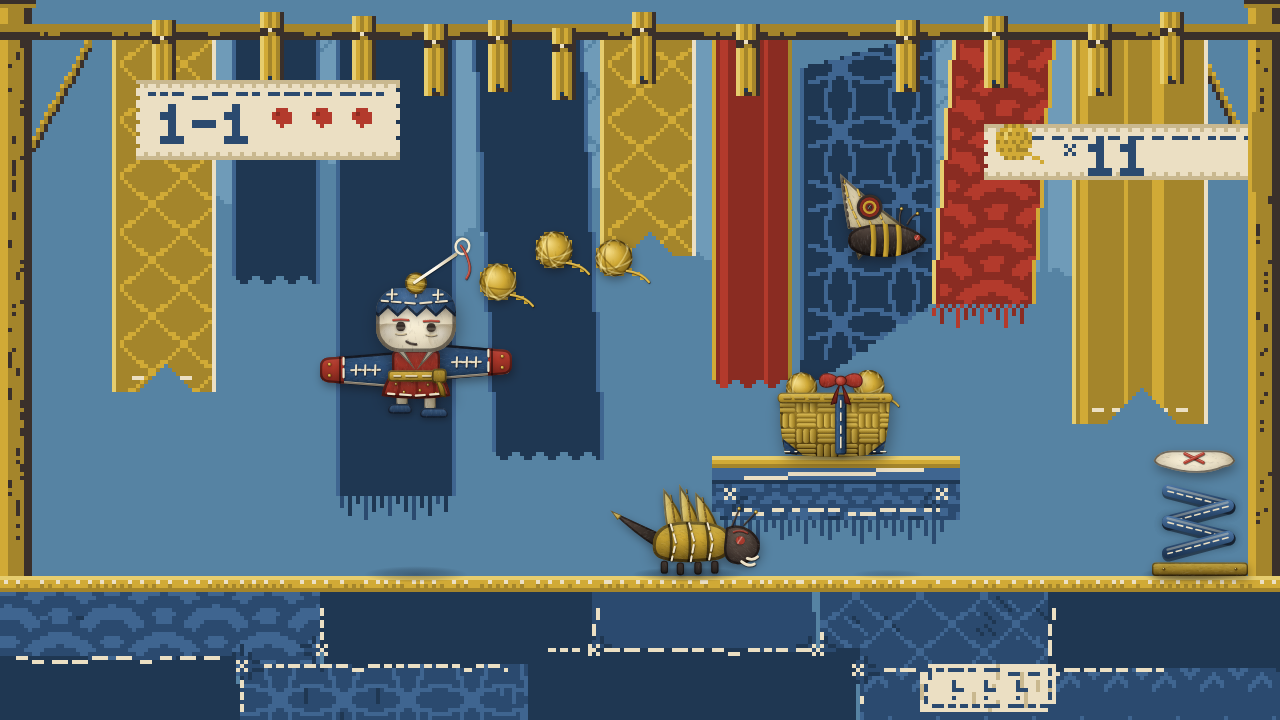
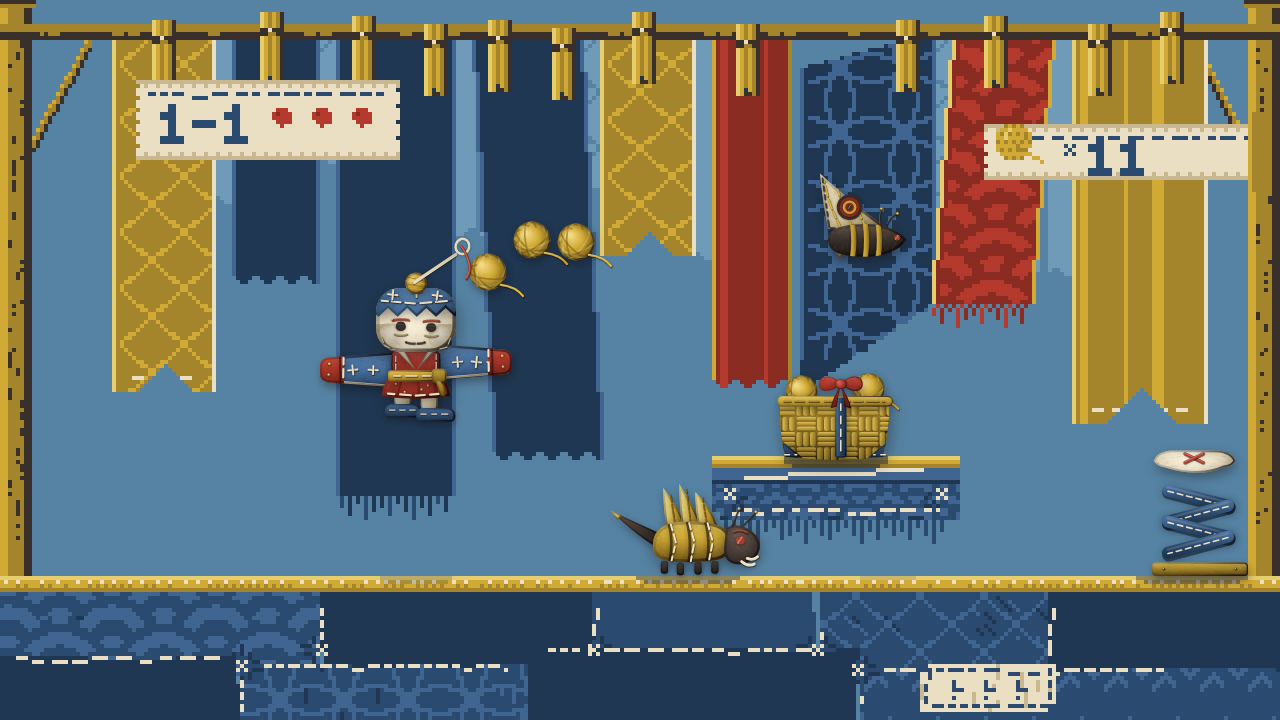
title-01: design concept revision 5 (hand-placed plush texture, layer boundary rule, face C finish)
Claude-Session: https://claude.ai/code/session_01BwCev4yJoSeeksS9CS27y6

diff --git a/studio/design-concept/notes.md b/studio/design-concept/notes.md
@@ -72,13 +72,37 @@
 - C「いたずらな半月」: 左は丸目、右は半分とじた半月で、茜のまぶたは右だけ高い弧、口は右が大きく上がる。ねらい: 一癖あるやんちゃな顔。「量産ぬい」の左右対称の笑顔とは、左右の目の形そのものが違い、ウィンクの記号（片目を線にして片口だけ上げる）にはせず、目は面のまま・両口角が上がる所が違う。
 
 ## 高解像度キャラ案（オーナー案: 背景はピクトグラム、キャラだけ4倍の密度でちりめん細工のぬいぐるみ）
-成果物: hires/tsugi-hires-options.png（A 楕円のサテン目＋茜の口 / B とじた弧の目＋茜の口 / C 半月の目＋長さ違いの2針。上段は6倍の全身、下段は顔の14倍）、hires/scene-hires.png（1280x720。背景は scene.png の最近傍4倍、キャラ=ツギ（B）・イガ・コナだけを高解像度で重ね、足もとに柔らかい接地影）。糸玉・つづら・ばねは背景側のドットのまま。6色の色相だけで、明暗は同じ色相の中間色。
+成果物: hires/tsugi-hires-options.png（A 楕円のサテン目＋茜の口 / B とじた弧の目＋茜の口 / C 半月の目＋長さ違いの2針。上段は6倍の全身、下段は顔の14倍）、hires/scene-hires.png（1280x720。背景は scene.png の最近傍4倍、キャラ=ツギ（B）・イガ・コナだけを高解像度で重ね、足もとに柔らかい接地影）。6色の色相だけで、明暗は同じ色相の中間色。
 実装コストとリスク（正直に）:
 - **描画を2層に割る必要がある**: 背景は 320x180 の低解像度キャンバスを整数倍で拡大、キャラは 1280x720 の別キャンバス（またはWebGL）に描く。カメラ・当たり判定は論理座標（16pxマス、足もと 12x24）のまま、描画だけを分ける。ピクセルスナップ（キャラの位置を論理1画素=4px にそろえるか、サブピクセルで滑らかに動かすか）を決める必要がある
 - **絵の量が増える**: 今回はスクリプトで描いたが、実ゲームでは「パーツ（頭・袖・胴・脚）を事前レンダリングした画像」にして、走り2〜4コマ・跳び・着地・踏まれ・顔の表情6種を、1キャラ数十枚（4倍の密度で1枚 200x180 前後）にする。敵7種＋ボスも同様で、アセット量とメモリはドット絵の十数倍。ちりめんの質感はテクスチャとして共有して容量を抑える。動きはスプライトを切り替えるより、パーツを袖・体で回して（リグ）、質感だけ事前描画にするのが現実的
-- **最大のリスクは解像度の混在が安っぽく見えること**: 今回の scene-hires.png では、イガ・コナは「ピクトグラムの世界に実物のぬいぐるみが置かれた」ギャップが愛らしく読めた。ただし、ツギは袖の暗い棒が大きく、身体の布の質感が背景のドット面と並ぶと少し重い。避ける方法: (1) 影の向きと色を背景と統一する（足もとの接地影は藍濃の半透明）、(2) キャラは背景より彩度は同じで質感だけ上げ、背景に影を落とさない（ぬいが浮いて見える）、(3) 小物（糸玉・つづら・ばね）まで高解像度にするか、全部ドットにするかを決める。中途半端に混ぜるとちぐはぐに見える。今回は小物をドットのままにして、キャラとの差をあえて残した、(4) 敵がやられる演出や、HUD の札まで質感を揃える
+- **最大のリスクは解像度の混在が安っぽく見えること**: 今回の scene-hires.png では、イガ・コナは「ピクトグラムの世界に実物のぬいぐるみが置かれた」ギャップが愛らしく読めた。ただし、ツギは袖の暗い棒が大きく、身体の布の質感が背景のドット面と並ぶと少し重い。避ける方法: (1) 影の向きと色を背景と統一する（足もとの接地影は藍濃の半透明）、(2) キャラは背景より彩度は同じで質感だけ上げ、背景に影を落とさない（ぬいが浮いて見える）、(3) 境界は一つの規則で決める（§1.6: 触れる・取れる・当たる物はぬいぐるみ層、触れない物・HUD の札と札の中のアイコンはピクト。改訂5で糸玉・つづら・ばねも高解像度にし、HUD の糸玉アイコンはピクトにそろえた）、(4) 敵がやられる演出は触れる物なのでぬいぐるみ層
 
 ## 改訂4 最終（2層・顔C）
 - 顔 C: 半月の目（上が丸く下が弧、幅1.15×高さ約1.8論理画素＝約18×14px）。糸の艶は横向きの帯だけ、斜めの光は無し。目の下に生成影の下まぶたの糸、上まぶたは茜の水平な弧。口は消炭の2針（左が長い）。決定版の顔: hires/tsugi-final-face.png
 - 袖は根元から袖口へ細くし（厚さ9→6.2）、色は藍淡→藍濃の階調に下げて背景の藍濃との差を小さくした。茜の袖口と胴がいちばん強い赤
 - 触れる物（糸玉・つづら・ばね・結び玉）もぬいぐるみ層に移した。シルエット確認: hires/silhouette-hires.png（上段 約130px、下段 約32px）。ツギは水平の袖と簪の輪、イガは背棘3本＋尻尾、コナは三角の翼で読める
+
+
+## 改訂5 手置きの表（ぬいぐるみ層。座標は論理画素、1=4px。ツギは head-local 原点=頭の左上、イガ・コナ・つづら・ばねは各 sprite-local 原点）
+乱数に任せず座標で決めたもの。毛羽（しぼ）の向きは面ごとに別で、縁と縫い目に寄せ、中央は薄い。
+- 毛羽の向き（rad、0=横・1.57=縦）: 顔布 0.5／頭巾 1.45／左袖 0.08／右袖 -0.14／胴 1.35／裾 1.1／衿 0.9 と 2.2／帯 0／足袋 1.57／草履 0／髷 0.8
+- 内影（縁）: 光は左上。縁の影は左上が薄く（alpha .10）、右下が濃い（alpha .78）。ぼかし幅は面ごとに 5〜20
+- 綿の片寄り（暗いふくらみ、x,y,半径,濃さ）: 頭 (3,6.6,2.6,.08) (17,7.2,2.2,.07) (5,13.4,2.4,.11) (15.5,14,2.2,.09)／頭巾 (6,2,2.4,.10) (15,3,2,.09)／左袖 (-8,20,2.8,.13) (-2.5,22.6,2,.10)／右袖 (26,18.6,2.8,.13) (31,20,1.8,.10)／胴 (7,18.5,2.4,.12)／裾 (4,24.6,2.4,.12) (15,25,2.2,.10)
+- 縫い代・合わせ目（盛り上がった線＋運針）: 袖と胴の合わせ目 左 x=4.15（y16.8〜21.6）・右 x=15.85（y16.3〜21.4）／あごの合わせ目 左 (1.4,12.2)→(4.8,15.5)・右 (18.6,12.6)→(15.2,15.5)／髪際の返し (0.5,3.2)→(10,4.4)→(19.5,3.2)／袖口の折り返し 左 x=-9・右 x=29
+- 玉止め（糸の端の結び目）: 茜の眉 左の始点 (4.2,8.05)・右の終点 (15.8,8.3)／口 左の始点 (7.5,13.55)・右の終点 (12.2,13.55)／裾の運針の終点 (17.2,26.35)
+- 刺し子の十字（位置と傾き）: 左袖 x=-0.7(+0.06) -5.8(-0.10) -9.6(+0.12)／右袖 x=20.4(-0.08) 25.1(+0.10) 29.0(-0.06)／頭巾 (4.2,1.7)(+0.1) (10.1,1.0)(-0.05) (15.3,1.9)(+0.14)。腕の長さは等間隔にしない（間 4.6・3.8、4.7・3.9）
+- 裾のひだ（x0,y0→x1,y1, 濃さ）: (6.4,22→5.0,27.6,.38) (10.3,22→10.5,28,.28) (14,22→15.2,27.6,.40)
+- 小さな縫い物: 袖口の French knot 左 (-11.6,y中-1.5)(-11.8,y中+1.2) 付近・右 (31.6,…)、裾の小花 6か所 (5,24)(9.3,23.2)(13,24.4)(7.2,26)(11.4,25.4)(15.2,26.5)
+- 簪の針: 白い反射線は無し（生成りの平らな面＋影）。艶は糸の向きの帯だけ（目は2本の帯、他は縫い目の糸にごく薄い線）
+- 目の寸法を1つにする: **横2.6×縦2.3 論理画素（約10×9px、縦横比0.9）**。plush.md も「横1.1cm×縦1.0cm」にそろえた
+- 顔 C の仕上げ: 目の艶は2本の帯、口は中央寄り（x7.5〜12.2、水平、両端だけわずかに上がる）、眉と口はサテンステッチの糸の筋（束）と玉止め、下まぶたの糸は濃い生成影 #a89868 で等倍でも見える
+
+## 配置規則（改訂5）
+- コナは茜濃の反物（x178〜198、x238〜264）から 6論理画素以上離す（現在 x202〜228、藍濃の反物の前）
+- 集める物（糸玉）は刈安の反物（x28〜54、x150〜174、x268〜302）の前に置かない。5論理画素以上離し、無地の藍濃（x58〜146）の前に置く（現在 x122〜144）
+- イガは反物の縁と暗い地面に重ねない（反物の裾より下の縹濃の空の前、地面の耳の上）
+
+## 接地影とピクセルスナップ（改訂5の決定）
+- 接地影: 藍濃の半透明（alpha 0.12〜0.5、高いほど薄い）の**階段状**。1論理画素（4px）の行ごとに幅を段々に狭め、背景の段差に合わせる。つづらは足場の耳（刈安の3行）の上に0.8論理画素沈めて置き、足場の上に3行の影を落とす（足場の外に出ない）
+- ピクセルスナップ: キャラと触れる物は**位置を1論理画素（4px）にそろえる**（動きは1論理画素ずつ。背景と同じリズム）。サブピクセル移動は使わない

diff --git a/studio/design-concept.md b/studio/design-concept.md
@@ -17,7 +17,10 @@
 - **背景・地形**: ピクト調の型染め（320x180、整数倍拡大）。平らな面と抜け線
 - **キャラと触れる物**（ツギ・ほどき衆・ボス・毛玉・つづら・ばね・結び玉など）: **4倍の密度（1280x720 の層）のちりめん細工のぬいぐるみ**。布のしわ、しぼ、刺し子の糸の盛り上がり、綿のふくらみの陰、足もとのやわらかい接地影。色は6色の色相の中で階調をつけてよい
 - ツギの顔は **C 半月の目**（hires/tsugi-hires-options.png）。刺繍の目、水平の茜のまぶた、長さの違う二針の口。光沢は糸の艶だけ
-- 「触れる物は本物の布、触れない物はピクト」で、遊びの読みやすさも作る
+- **層の境界（1行）**: 触れる・取れる・当たる物はぬいぐるみ層、触れない物（地形・背景・HUD の札と札の中のアイコン）はピクト
+- **接地影**: 藍濃の半透明（alpha 0.12〜0.5、空中ほど薄い）の階段状。1論理画素の行ごとに幅を狭め、背景の段差に合わせる。足場に置く物は耳に0.8論理画素沈めて影を落とす
+- **ピクセルスナップ**: キャラと触れる物は位置を1論理画素（4px）にそろえ、動きも1論理画素ずつ（背景と同じリズム）。サブピクセル移動はしない
+- 質感は面ごとに毛羽の向きを変え、縁と縫い目に寄せる。縫い代・合わせ目・玉止め・綿の片寄りは座標で手置き（notes.md の表）。白い反射線は入れない（光沢は糸の向きの帯だけ）
 - 見本: studio/design-concept/hires/
 
 ## 2. 借りてくる物（実在の物・技法）
@@ -45,7 +48,7 @@
 | ボス（大蛾ケバ等） | **大きな三角の翼＋筒の胴**、翼に文様（蛾の目玉模様を千鳥・七宝で） | 翼の縁はほつれた糸 | 敵の形の言葉を大きくしたもの |
 | 地形 | **長方形の継ぎ布**。上面は布の「耳」（織物の端）か折り返し | 角にまち針や縫い留め | 島＝縫い合わされた布 |
 - シルエットの約束: ツギは「左右に張り出した四角い袖＋頭の上の針（簪）」で、**黒塗りでも 16px でも分かる**。敵は全員、ツギの四角と逆の「筒・とがり」
-- 顔（改訂4。C 半月の目で決定。実装はぬいぐるみ層＝1280x720）: 顔布は生成りの綿ブロード。目は消炭の**横長の半月**のサテンステッチ（幅約1.1cm×高さ0.6cm、上が丸く下が弧）。糸の艶は糸の向き（横）に沿う帯だけで、斜めの光や点のハイライトは入れない。目の下に生成影の「下まぶたの糸」の細い弧を1本入れ、サングラスに見えないようにする。上まぶたは茜の水平な短い弧。口は消炭の2針（左が長く右が短い、両端がわずかに上がる）。頬は影でふくらませ、色や点は足さない（頬の点・赤い口の面・縦長の点目・ウィンク形・笑顔の大口は使わない）
+- 顔（改訂4。C 半月の目で決定。実装はぬいぐるみ層＝1280x720）: 顔布は生成りの綿ブロード。目は消炭の**半月**のサテンステッチ（横1.1cm×縦1.0cm、縦横比0.9、上が丸く下が弧）。糸の艶は糸の向き（横）に沿う帯だけで、斜めの光や点のハイライトは入れない。目の下に濃い生成影の「下まぶたの糸」の弧を1本入れ、サングラスに見えないようにする。眉と上まぶたは茜のサテンステッチ（玉止めつき）の水平な短い弧。口は消炭の2針で、顔の中央寄りに水平、両端だけわずかに上がる。頬は影でふくらませ、色や点は足さない（頬の点・赤い口の面・縦長の点目・ウィンク形・笑顔の大口は使わない）
 - ピクト層（320x180）の顔の設計（改訂3の半月目＋面の割り）は、実装がぬいぐるみ層なので見本のみ。ドット版が必要なら半月の目・茜の水平のまぶたを引き継ぐ
 - 顔だけを12倍に拡大しても「汎用の動物」に見えないこと、黒塗り16pxでも読めること
 

diff --git a/studio/characters/tsugi/final/plush.md b/studio/characters/tsugi/final/plush.md
@@ -15,8 +15,8 @@
 素材: 綿（絣・更紗・ブロード）、フェルト（帯・草履・針穴の輪）、毛糸（髷・糸）。頭と胴は綿を詰め、袖は軽く詰めてシワを出す。
 
 刺繍
-- 目（改訂4・C 半月の目）: 黒糸（消炭）でサテンステッチ、横1.1cm×縦0.6cmの半月（上が丸く下が弧）。ハイライトの針は無し、糸の艶だけ。糸の向きは横。目の下に生成影の糸で細い下まぶたの弧を1本（バックステッチ）。まぶた: 茜の水平な短い弧（上まぶた）。
-- まゆは上まぶたの茜の弧で代える（黒の2針×2は無し）。口: 消炭の2針のバックステッチ（左が長く、右が短い。両端がわずかに上がる）。
+- 目（改訂4・C 半月の目）: 黒糸（消炭）でサテンステッチ、横1.1cm×縦1.0cmの半月（縦横比0.9、上が丸く下が弧）。ハイライトの針は無し、糸の艶だけ。糸の向きは横。目の下に濃い生成影の糸で下まぶたの弧を1本（バックステッチ）。まぶた: 茜のサテンステッチの水平な短い弧（上まぶた、端は玉止め）。
+- まゆは上まぶたの茜の弧で代える（黒の2針×2は無し）。口: 消炭の2針のサテンステッチ（顔の中央寄りに水平、左が少し長い。両端だけわずかに上がる。端は玉止め）。
 - 頬: 刺繍は付けない（綿のふくらみの陰影で表す。頬の3本ステッチは廃止。concept の「頬の点・線は使わない」に合わせた）。
 
 安全と縫えるかの確認
